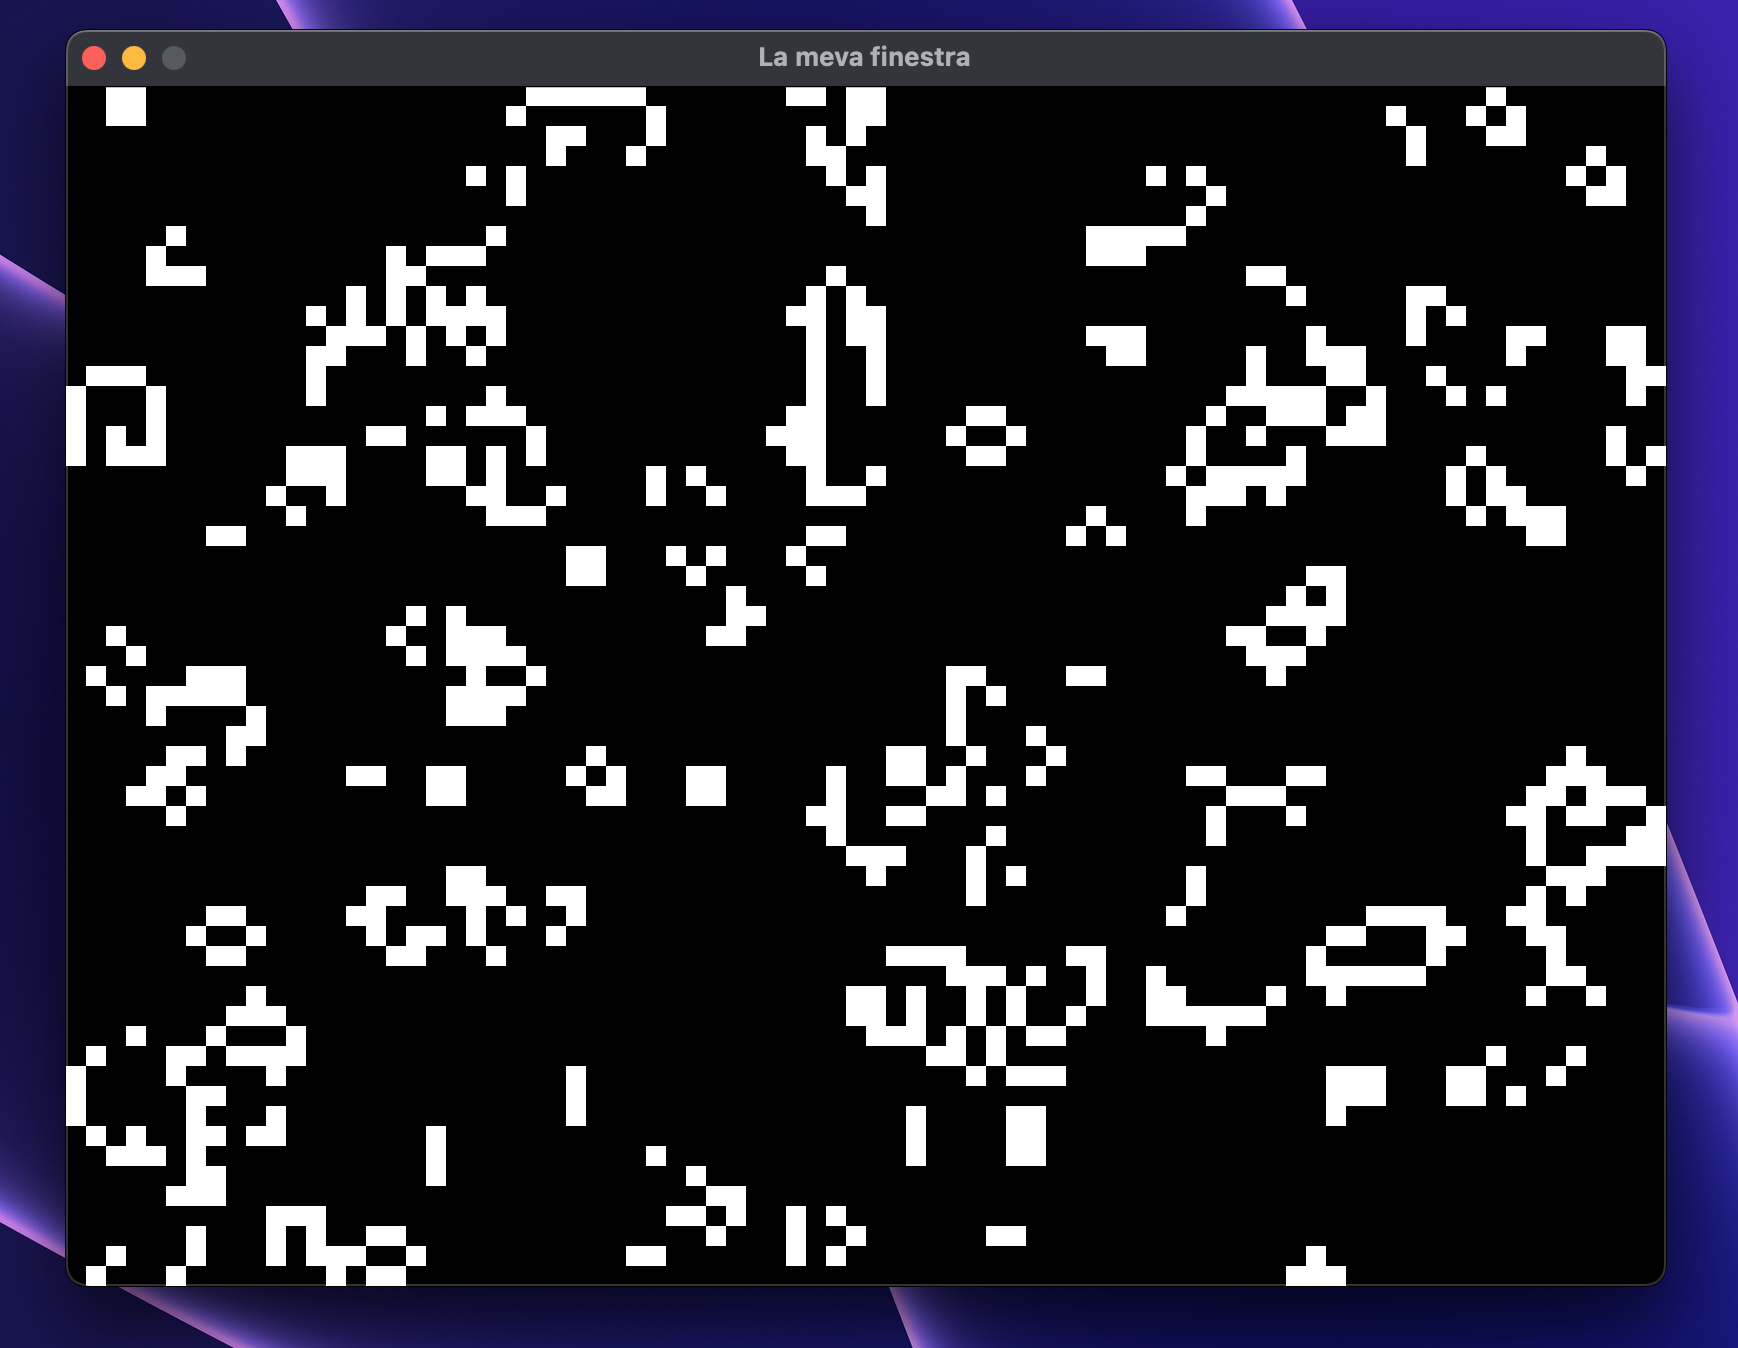
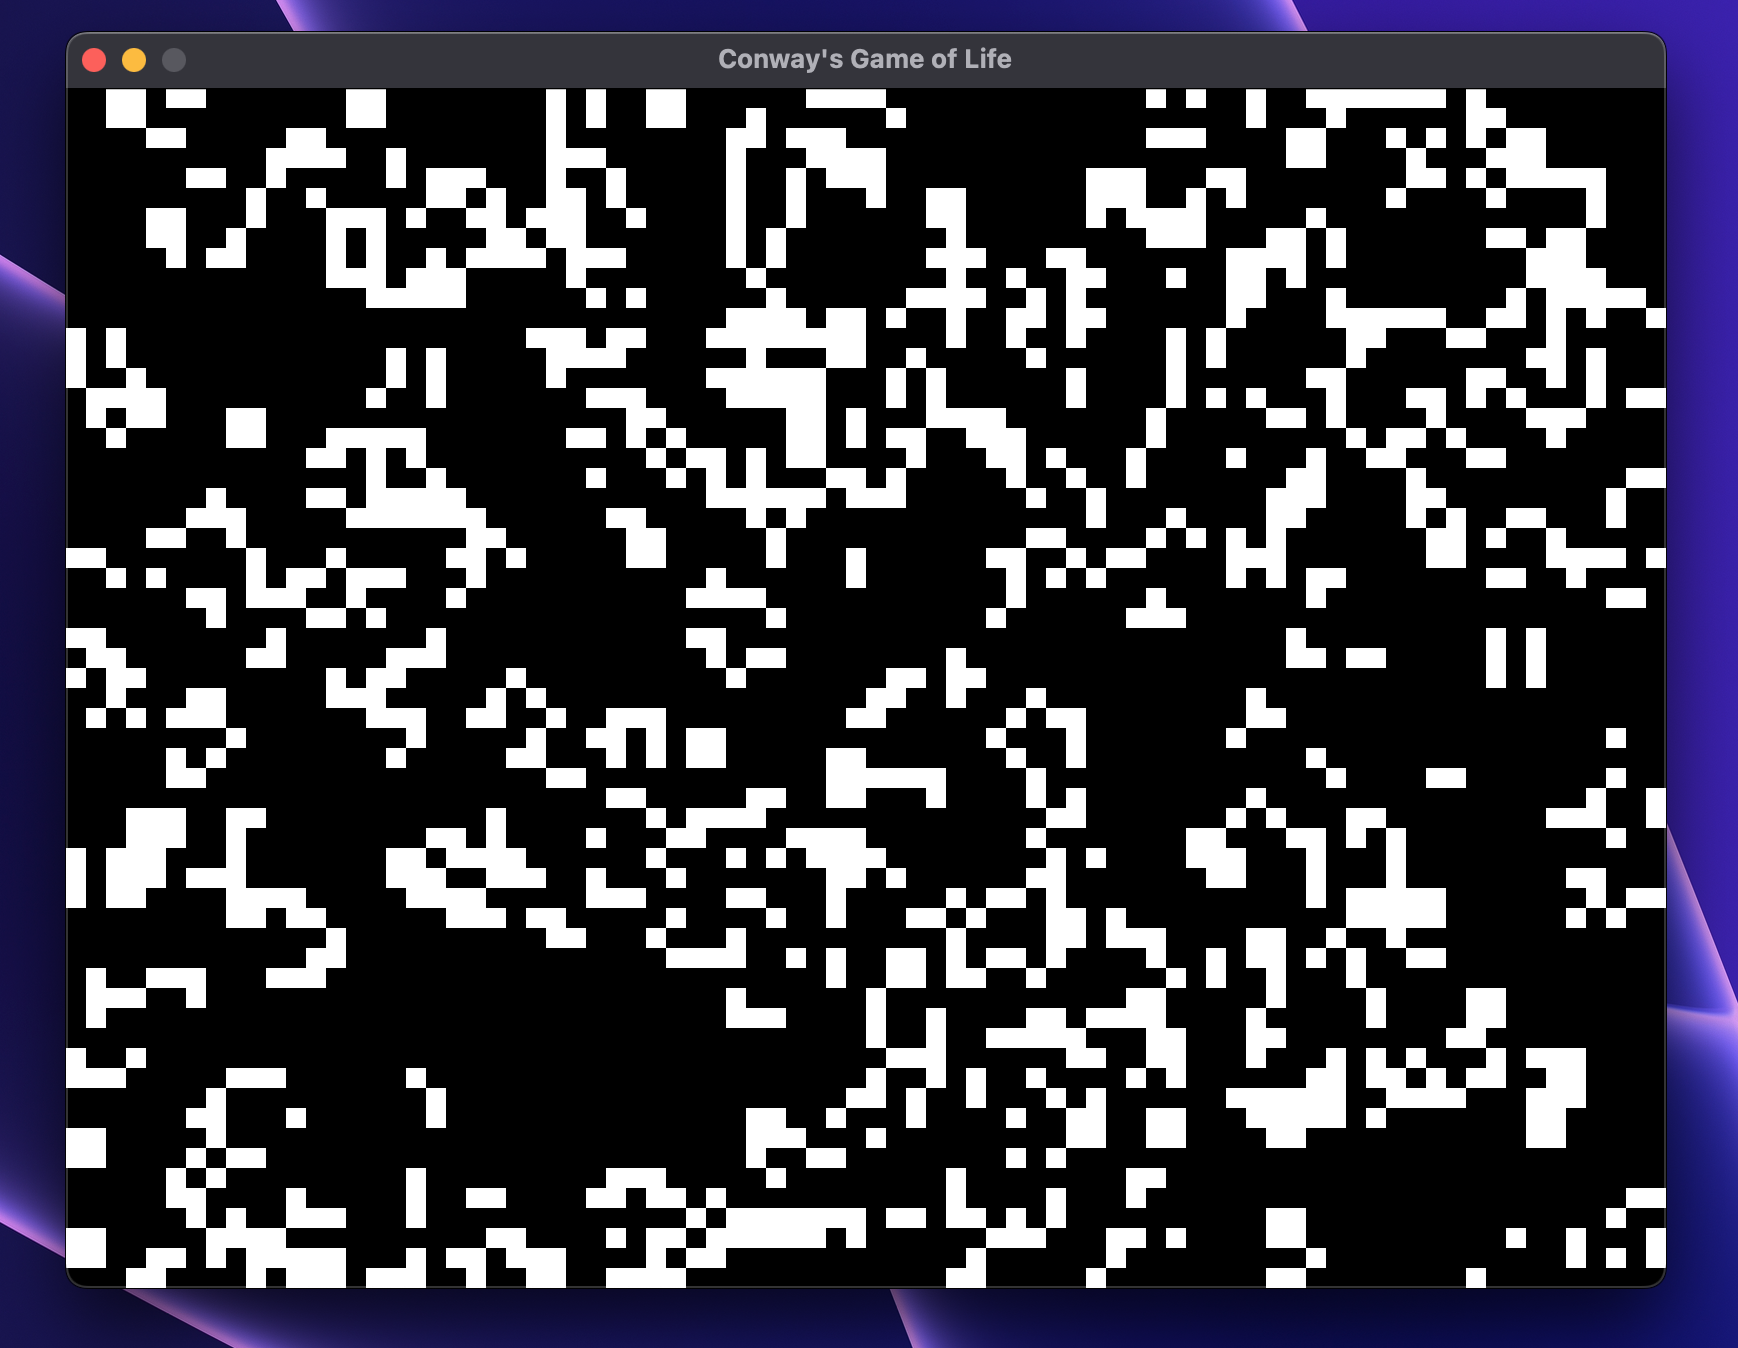
Added screenshot.

diff --git a/src/main.cpp b/src/main.cpp
@@ -29,7 +29,7 @@
 
 int main(int argc, char const** argv) {
     sf::VideoMode vm(800,600);
-    sf::RenderWindow window(vm, "La meva finestra", sf::Style::None | sf::Style::Titlebar | sf::Style::Close);
+    sf::RenderWindow window(vm, "Conway's Game of Life", sf::Style::None | sf::Style::Titlebar | sf::Style::Close);
         
     sf::Music music;
     if (!music.openFromFile("Resources/Music/rick_and_morty.ogg")) {return EXIT_FAILURE;}

diff --git a/README.md b/README.md
@@ -1,11 +1,14 @@
-# Connway's Game of Life in SFML
+# Conway's Game of Life in SFML
 
 ### Introduction
-My approach to Connway's Game of Life. Implemented in C++ and SFML.
+My approach to Conway's Game of Life. Implemented in C++ and SFML.
 
 ### Usage
 When executed from the command line, if no argument is provided, cells' width is set by default to 10 pixels. If the user wants to change it, needs to provide the size in pixels as the only argument for the program. This size should be between 1 and 100 (both included).
 
 ### Dependencies
 While direct SFML dependencies have been included in the package, it still depends on dynamic libraries. Hence, it is required for the user to have SFML installed anyway.
+
+### Screenshots
+![image](https://github.com/arnauJutglar/GameOfLife/blob/main/Resources/Screenshots/screenshot1.png)
 
